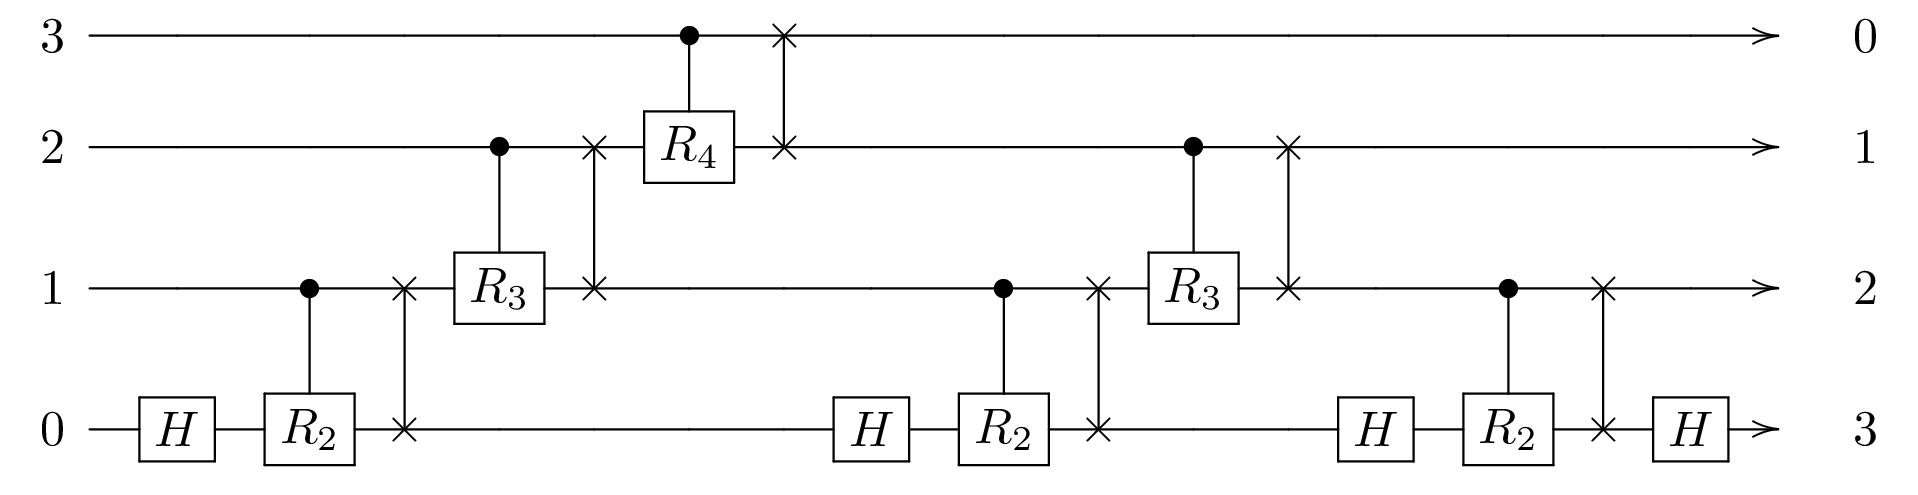
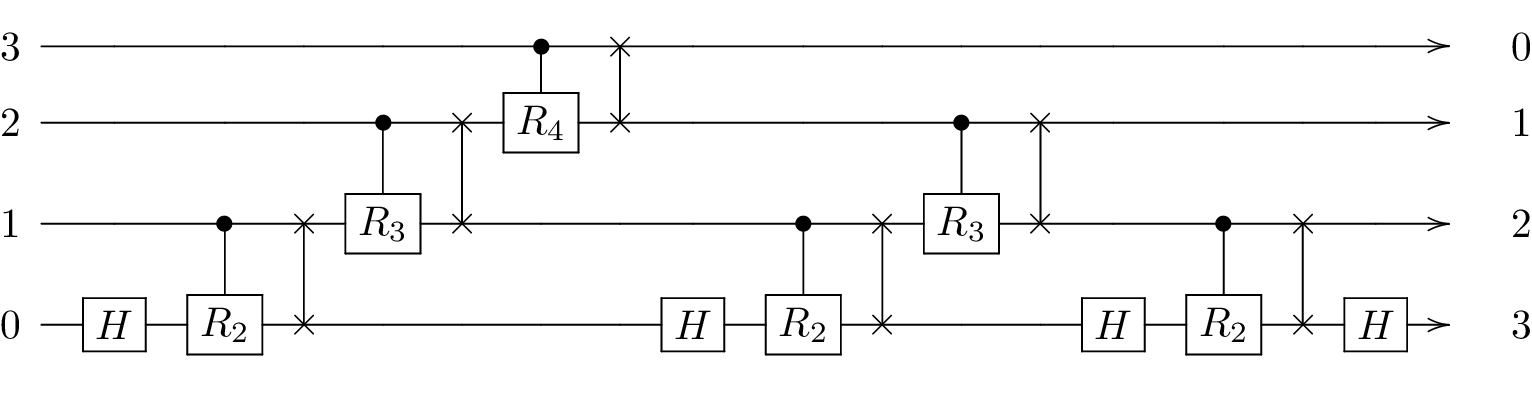
Add source files for circuit diagrams

diff --git a/doc/source/_static/qft_HR2R3_boxed.tex b/doc/source/_static/qft_HR2R3_boxed.tex
@@ -1,0 +1,21 @@
+\documentclass[varwidth=false, border=10pt]{standalone}
+% compile with pdflatex -interaction batchmode .\qft_HR2R3_boxed.tex
+% convert with magick convert -density 300 .\qft_HR2R3_boxed.pdf .\qft_HR2R3_boxed.png
+\usepackage{qcircuit}
+\usepackage{physics}
+
+\begin{document}
+
+\Qcircuit @C=1em @R=1em {
+    \lstick{3}  & \qw       & \qw         & \qw           & \qw        & \qw           & \ctrl{1}   & \qswap        & \qw       & \qw        & \qw           & \qw        & \qw           & \qw       & \qw        & \qw           & \qw       & \qwa    & \rstick{0} \\
+    \lstick{2}  & \qw       & \qw         & \qw           & \ctrl{1}   & \qswap        & \gate{R_4} & \qswap\qwx    & \qw       & \qw        & \qw           & \ctrl{1}   & \qswap        & \qw       & \qw        & \qw           & \qw       & \qwa    & \rstick{1} \\
+    \lstick{1}  & \qw       & \ctrl{1}    & \qswap        & \gate{R_3} & \qswap\qwx    & \qw        & \qw           & \qw       & \ctrl{1}   & \qswap        & \gate{R_3} & \qswap\qwx    & \qw       & \ctrl{1}   & \qswap        & \qw       & \qwa    & \rstick{2} \\
+    \lstick{0}  & \gate{H}  & \gate{R_2}  & \qswap\qwx    & \qw        & \qw           & \qw        & \qw           & \gate{H}  & \gate{R_2} & \qswap\qwx    & \qw        & \qw           & \gate{H}  & \gate{R_2} & \qswap\qwx    & \gate{H}  & \qwa    & \rstick{3}
+    \gategroup{3}{2}{4}{4}{1em}{--}
+    \gategroup{2}{5}{3}{6}{1em}{--}
+    \gategroup{3}{9}{4}{11}{1em}{--}
+    \gategroup{2}{12}{3}{13}{1em}{--}
+    \gategroup{3}{14}{4}{16}{1em}{--}
+}
+
+\end{document}

diff --git a/doc/source/_static/qft_with_echo.tex b/doc/source/_static/qft_with_echo.tex
@@ -1,0 +1,19 @@
+\documentclass[varwidth=false, border=10pt]{standalone}
+% compile with pdflatex -interaction batchmode .\qft_with_echo.tex
+% convert with magick convert -density 300 .\qft_with_echo.pdf .\qft_with_echo.png
+\usepackage{qcircuit}
+
+\begin{document}
+
+\Qcircuit @C=1em @R=1em {
+    \lstick{3}  & \qw       & \gate{X}    & \qw           & \gate{X}   & \qw           & \ctrl{1}   & \qswap        & \qw       & \gate{X}   & \qw           & \gate{X}   & \qw           & \qw       & \qw        & \qw           & \qw       & \qwa    & \rstick{0} \\
+    \lstick{2}  & \qw       & \qw         & \qw           & \ctrl{1}   & \qswap        & \gate{R_4} & \qswap\qwx    & \qw       & \qw        & \qw           & \ctrl{1}   & \qswap        & \qw       & \qw        & \qw           & \qw       & \qwa    & \rstick{1} \\
+    \lstick{1}  & \qw       & \ctrl{1}    & \qswap        & \gate{R_3} & \qswap\qwx    & \qw        & \qw           & \qw       & \ctrl{1}   & \qswap        & \gate{R_3} & \qswap\qwx    & \qw       & \ctrl{1}   & \qswap        & \qw       & \qwa    & \rstick{2} \\
+    \lstick{0}  & \gate{H}  & \gate{R_2}  & \qswap\qwx    & \qw        & \qw           & \qw        & \qw           & \gate{H}  & \gate{R_2} & \qswap\qwx    & \qw        & \qw           & \gate{H}  & \gate{R_2} & \qswap\qwx    & \gate{H}  & \qwa    & \rstick{3}
+    \gategroup{1}{3}{1}{3}{1em}{--}
+    \gategroup{1}{5}{1}{5}{1em}{--}
+    \gategroup{1}{10}{1}{10}{1em}{--}
+    \gategroup{1}{12}{1}{12}{1em}{--}
+}
+
+\end{document}

diff --git a/doc/source/_static/qft_HR2R3_boxed_separately.tex b/doc/source/_static/qft_HR2R3_boxed_separately.tex
@@ -1,0 +1,18 @@
+\documentclass[varwidth=false, border=10pt]{standalone}
+% compile with pdflatex -interaction batchmode .\qft_HR2R3_boxed_separately.tex
+% convert with magick convert -density 300 .\qft_HR2R3_boxed_separately.pdf .\qft_HR2R3_boxed_separately.png
+\usepackage{qcircuit}
+\usepackage{physics}
+
+\begin{document}
+
+\Qcircuit @C=1em @R=1em {
+    \lstick{3}  & \qw       & \qw         & \qw           & \qw        & \qw           & \ctrl{1}   & \qswap        & \qw       & \qw        & \qw           & \qw        & \qw           & \qw       & \qw        & \qw           & \qw       & \qwa    & \rstick{0} \\
+    \lstick{2}  & \qw       & \qw         & \qw           & \ctrl{1}   & \qswap        & \gate{R_4} & \qswap\qwx    & \qw       & \qw        & \qw           & \ctrl{1}   & \qswap        & \qw       & \qw        & \qw           & \qw       & \qwa    & \rstick{1} \\
+    \lstick{1}  & \qw       & \ctrl{1}    & \qswap        & \gate{R_3} & \qswap\qwx    & \qw        & \qw           & \qw       & \ctrl{1}   & \qswap        & \gate{R_3} & \qswap\qwx    & \qw       & \ctrl{1}   & \qswap        & \qw       & \qwa    & \rstick{2} \\
+    \lstick{0}  & \gate{H}  & \gate{R_2}  & \qswap\qwx    & \qw        & \qw           & \qw        & \qw           & \gate{H}  & \gate{R_2} & \qswap\qwx    & \qw        & \qw           & \gate{H}  & \gate{R_2} & \qswap\qwx    & \gate{H}  & \qwa    & \rstick{3}
+    \gategroup{2}{2}{4}{6}{1em}{--}
+    \gategroup{2}{9}{4}{13}{1em}{--}
+}
+
+\end{document}

diff --git a/doc/source/_static/qft.tex b/doc/source/_static/qft.tex
@@ -1,0 +1,16 @@
+\documentclass[varwidth=false, border=10pt]{standalone}
+% compile with pdflatex -interaction batchmode .\qft.tex
+% convert with magick convert -density 300 .\qft.pdf .\qft.png
+\usepackage{qcircuit}
+\usepackage{physics}
+
+\begin{document}
+
+\Qcircuit @C=1em @R=1em {
+    \lstick{3}  & \qw       & \qw         & \qw           & \qw        & \qw           & \ctrl{1}   & \qswap        & \qw       & \qw        & \qw           & \qw        & \qw           & \qw       & \qw        & \qw           & \qw       & \qwa    & \rstick{0} \\
+    \lstick{2}  & \qw       & \qw         & \qw           & \ctrl{1}   & \qswap        & \gate{R_4} & \qswap\qwx    & \qw       & \qw        & \qw           & \ctrl{1}   & \qswap        & \qw       & \qw        & \qw           & \qw       & \qwa    & \rstick{1} \\
+    \lstick{1}  & \qw       & \ctrl{1}    & \qswap        & \gate{R_3} & \qswap\qwx    & \qw        & \qw           & \qw       & \ctrl{1}   & \qswap        & \gate{R_3} & \qswap\qwx    & \qw       & \ctrl{1}   & \qswap        & \qw       & \qwa    & \rstick{2} \\
+    \lstick{0}  & \gate{H}  & \gate{R_2}  & \qswap\qwx    & \qw        & \qw           & \qw        & \qw           & \gate{H}  & \gate{R_2} & \qswap\qwx    & \qw        & \qw           & \gate{H}  & \gate{R_2} & \qswap\qwx    & \gate{H}  & \qwa    & \rstick{3}
+}
+
+\end{document}
